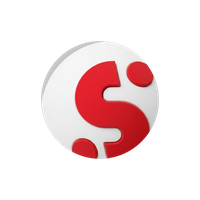
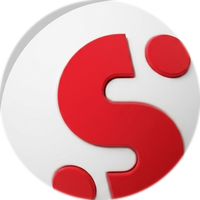
POTD: mirror live score while playing (green if tip landing), celebrate wins only, never label a loss (tip stays as-is); refresh POTD on live poll. Ball re-cut to fill frame as clean circle

diff --git a/public/index.html b/public/index.html
@@ -225,15 +225,17 @@ img,svg{max-width:100%}
 .potd .big em{font-style:normal;font-size:.45em}
 /* Locked POTD status chip + result states */
 .potd-status{margin-left:auto;font-size:11px;font-weight:800;letter-spacing:.06em;
-  text-transform:uppercase;padding:3px 10px;border-radius:99px;background:rgba(255,255,255,.22);color:#fff}
-.potd-status.potd-await{background:rgba(255,255,255,.2)}
+  text-transform:uppercase;padding:3px 10px;border-radius:99px;background:rgba(255,255,255,.22);color:#fff;
+  display:inline-flex;align-items:center;gap:6px}
 .potd-won .potd-top,.potd.potd-won .potd-top{background:var(--green)}
 .potd.potd-won{border-color:var(--green)}
-.potd.potd-lost{border-color:var(--grey)}
-.potd.potd-lost .potd-top{background:#6b6b72}
+.potd.potd-live{border-color:var(--red)}
+.potd-status.potd-live .ld{width:7px;height:7px;border-radius:50%;background:#fff;
+  box-shadow:0 0 0 0 rgba(255,255,255,.7);animation:potdLivePulse 1.4s ease-out infinite}
+@keyframes potdLivePulse{0%{box-shadow:0 0 0 0 rgba(255,255,255,.6)}70%{box-shadow:0 0 0 6px rgba(255,255,255,0)}100%{box-shadow:0 0 0 0 rgba(255,255,255,0)}}
 .potd .big.potd-score{color:var(--text)}
 .potd.potd-won .big.potd-score{color:var(--green-ink)}
-.potd.potd-lost .big.potd-score{color:var(--soft)}
+.potd.potd-live-good .big.potd-score{color:var(--green-ink)}
 .potd .big.potd-score em{font-size:.5em;color:var(--faint);margin:0 .05em}
 
 /* Market palette icons - transparent green */
@@ -569,14 +571,12 @@ html.mode-build .list-hint,html.mode-live .list-hint{display:none}
 @keyframes wspOrbDrift{from{transform:translate(0,0)}to{transform:translate(30px,12px)}}
 .slip-cta:hover{border-color:rgba(232,199,95,.85)}
 .slip-cta:hover .sc-go-btn{box-shadow:0 6px 26px rgba(112,66,240,.55),inset 0 0 18px rgba(140,96,255,.35),inset 0 1px 0 rgba(255,255,255,.2)!important;border-color:rgba(232,199,95,.9)}
-.sc-orb{flex-shrink:0;width:46px;height:46px;margin-top:-2px;
-  background:url("/wiz-orb.png") center/contain no-repeat;
-  /* drop-shadow hugs the ball's actual circle (box-shadow would glow the
-     transparent padding box instead, looking detached) */
-  filter:drop-shadow(0 0 5px rgba(180,150,255,.6));
+.sc-orb{flex-shrink:0;width:44px;height:44px;margin-top:0;
+  background:url("/wiz-orb.png") center/cover no-repeat;border-radius:50%;
+  filter:drop-shadow(0 0 5px rgba(180,150,255,.55));
   animation:orbBreath 3.4s ease-in-out infinite}
-@keyframes orbBreath{0%,100%{filter:drop-shadow(0 0 4px rgba(180,150,255,.45))}
-  50%{filter:drop-shadow(0 0 8px rgba(200,175,255,.85))}}
+@keyframes orbBreath{0%,100%{filter:drop-shadow(0 0 4px rgba(180,150,255,.4))}
+  50%{filter:drop-shadow(0 0 8px rgba(200,175,255,.8))}}
 .sc-tx{flex:1;min-width:0}
 .sc-tx b{display:block;font-size:16.5px;font-weight:800;color:#fff;letter-spacing:.01em}
 .sc-tx i{display:block;font-style:normal;font-size:12.5px;color:#CFC4F2;margin-top:3px}
@@ -2555,19 +2555,51 @@ function renderPotd(){
     prunePotdKeys(dateStr);
   }
 
-  const started=!isUpcoming(top);
-  const result=started?potdResult(top,top):null;
-  let statusChip, bigHTML, stateClass="";
-  if(result){
-    stateClass=result.won?"potd-won":(result.push?"potd-push":"potd-lost");
-    statusChip="<span class='potd-status "+stateClass+"'>"+(result.won?"✔ Won":result.push?"Push":"✖ Lost")+"</span>";
-    bigHTML="<div class='big potd-score'>"+result.hg+"<em>-</em>"+result.ag+"</div>";
-  } else if(started){
-    statusChip="<span class='potd-status potd-await'>Awaiting result</span>";
-    bigHTML="<div class='big num'>"+P0(top.tip_p)+"<em>%</em></div>";
-  } else {
-    statusChip="<span class='k'>"+esc(compOf(top.league))+"</span>";
-    bigHTML="<div class='big num'>"+P0(top.tip_p)+"<em>%</em></div>";
+  /* Live-feed match for this pick gives near real-time score; falls back to the
+     backend result once the live feed drops a finished game. Rules:
+       - upcoming            -> show the tip + confidence (normal)
+       - in play             -> mirror the live score (green if the tip is landing)
+       - full time & WON     -> celebrate: score + "Won"
+       - full time & LOST    -> leave the tip exactly as-is (never label a loss) */
+  function findLive(){
+    var best=null,bs=0;
+    (LIVE.matches||[]).forEach(function(m){
+      var sc=simTeams(top.home,m.home)+simTeams(top.away,m.away);
+      if(sc>bs){bs=sc;best=m;}
+    });
+    return (best&&bs>=1.3)?best:null;
+  }
+  const FTre=/(ft|finished|ended|aet|after et|pen|ap)/i;
+  let statusChip, bigHTML, stateClass="", metaExtra="", eyebrowPast=false, handled=false;
+  const lm=findLive();
+  if(lm && lm.homeScore!=null && lm.awayScore!=null){
+    const ev=tipEval(top)(lm.homeScore,lm.awayScore);
+    if(FTre.test(lm.status||"")){
+      if(ev==="win"){                     // celebrate wins only; losses fall through
+        stateClass="potd-won";
+        statusChip="<span class='potd-status potd-won'>✔ Won</span>";
+        bigHTML="<div class='big potd-score'>"+lm.homeScore+"<em>-</em>"+lm.awayScore+"</div>";
+        metaExtra=" &middot; Full time"; eyebrowPast=true; handled=true;
+      }
+    } else {                               // in play - mirror the live score
+      stateClass=(ev==="win")?"potd-live potd-live-good":"potd-live";
+      statusChip="<span class='potd-status potd-live'><span class='ld'></span>LIVE"+(lm.minute?" "+esc(String(lm.minute))+"’":"")+"</span>";
+      bigHTML="<div class='big potd-score'>"+lm.homeScore+"<em>-</em>"+lm.awayScore+"</div>";
+      metaExtra=" &middot; "+(ev==="win"?"Tip landing":"In play");
+      handled=true;
+    }
+  }
+  if(!handled){
+    const r=potdResult(top,top);
+    if(r && r.won){                        // backend confirms a win
+      stateClass="potd-won";
+      statusChip="<span class='potd-status potd-won'>✔ Won</span>";
+      bigHTML="<div class='big potd-score'>"+r.hg+"<em>-</em>"+r.ag+"</div>";
+      metaExtra=" &middot; Full time"; eyebrowPast=true;
+    } else {                               // upcoming, or lost -> leave the tip as-is
+      statusChip="<span class='k'>"+esc(compOf(top.league))+"</span>";
+      bigHTML="<div class='big num'>"+P0(top.tip_p)+"<em>%</em></div>";
+    }
   }
 
   const reasons=[];
@@ -2597,10 +2629,10 @@ function renderPotd(){
           "<div><h2>"+esc(plainTip(top))+"</h2>"+
             "<p class='meta'>"+esc(top.home)+" v "+esc(top.away)+" &middot; "+
               dayName(dayOff(top.date))+" "+esc(kickTime(top))+
-              (result?" &middot; Full time":"")+"</p></div>"+
+              metaExtra+"</p></div>"+
           bigHTML+
         "</div>"+
-        "<div class='why'><span class='eyebrow'>Why we like"+(result?"d":"")+" it</span><ul>"+
+        "<div class='why'><span class='eyebrow'>Why we like"+(eyebrowPast?"d":"")+" it</span><ul>"+
           reasons.map(function(r){return "<li><span class='dot'></span><span>"+r+"</span></li>";}).join("")+
         "</ul></div>"+
       "</div>"+
@@ -3819,6 +3851,10 @@ async function fetchLive(){
   if(rb) rb.classList.remove("spin");
   syncLiveDots();
   renderLiveStrip();
+  /* Keep the locked Pick of the Day mirroring the live score / full-time result
+     as fresh scores arrive (only meaningful on the predictions/home view). */
+  if(typeof renderPotd==="function" && !document.documentElement.classList.contains("mode-live")
+     && !document.documentElement.classList.contains("mode-build")) { try{renderPotd();}catch(e){} }
   if(document.documentElement.classList.contains("mode-live")) renderLive();
 }
 function statusText(m){
